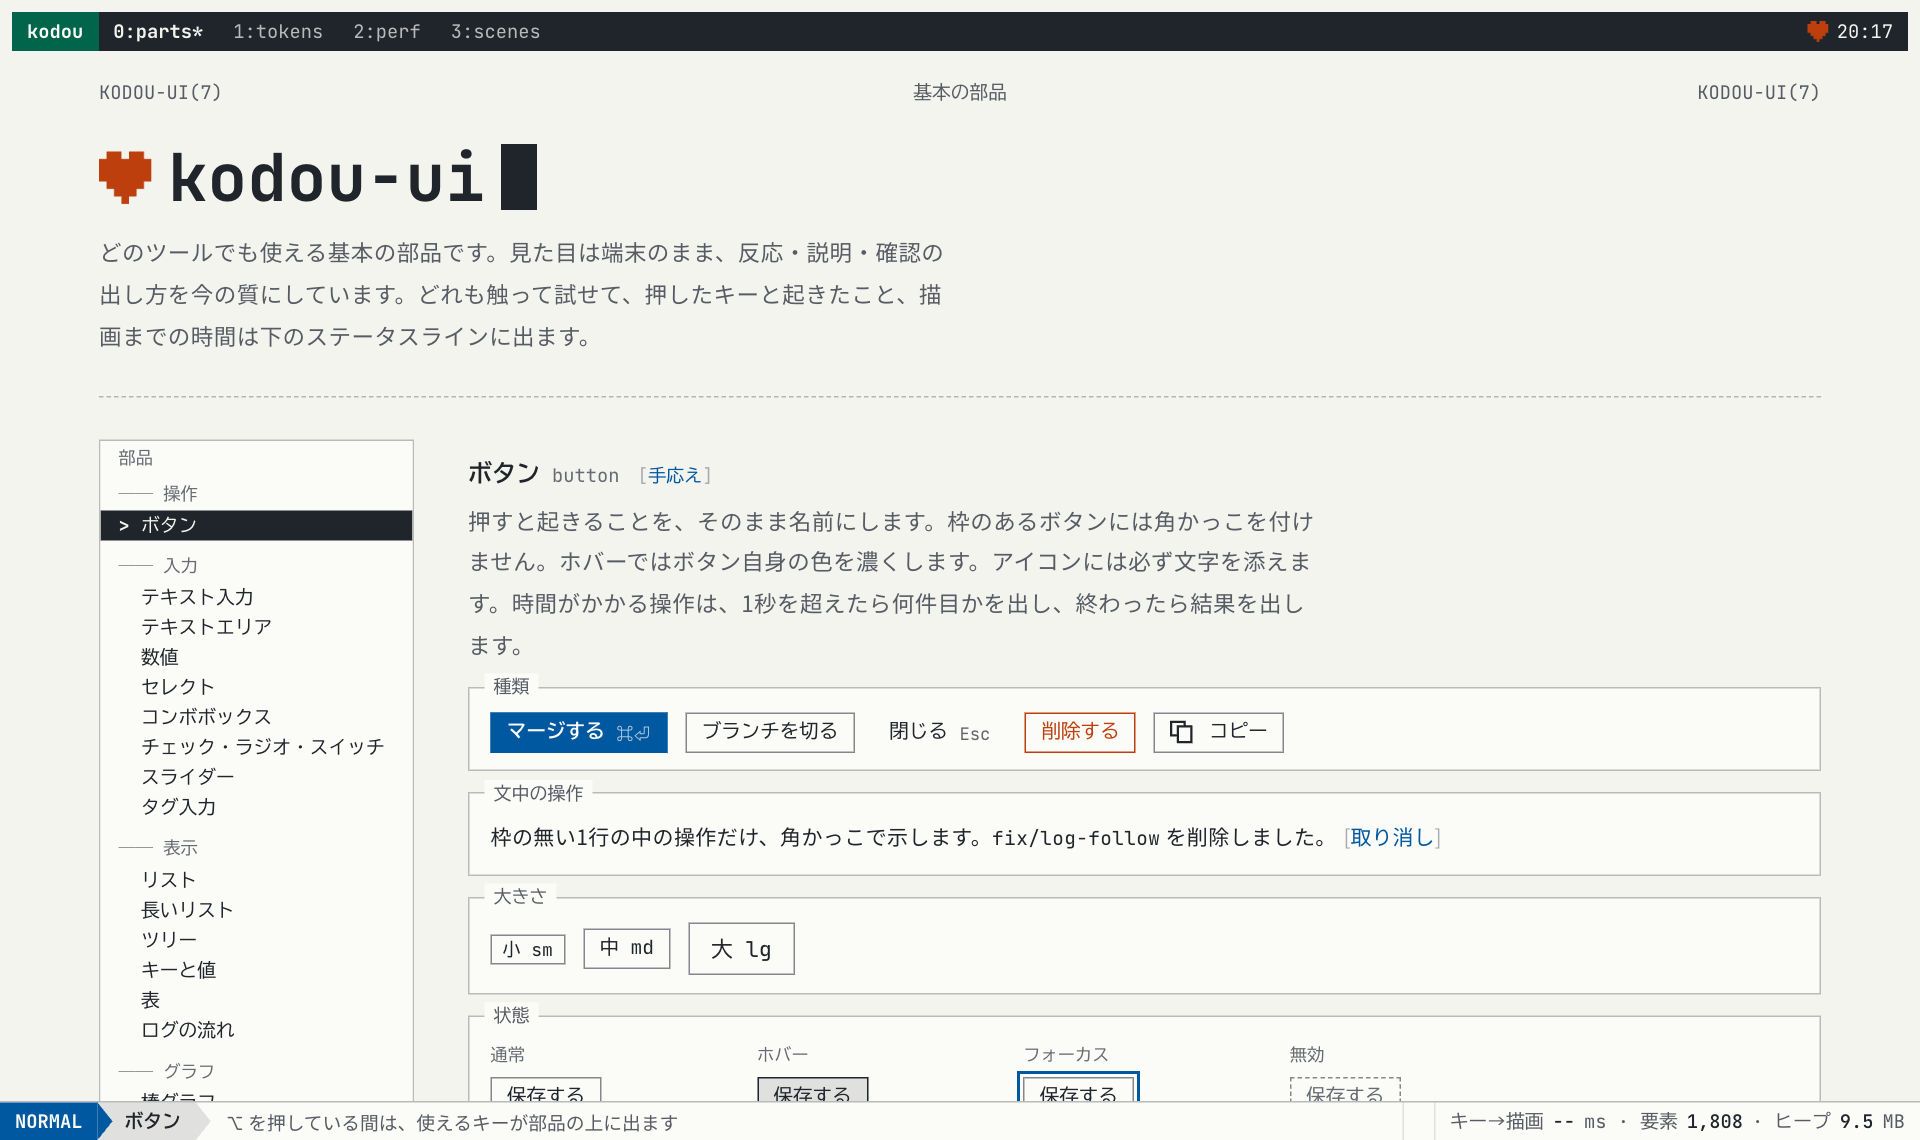
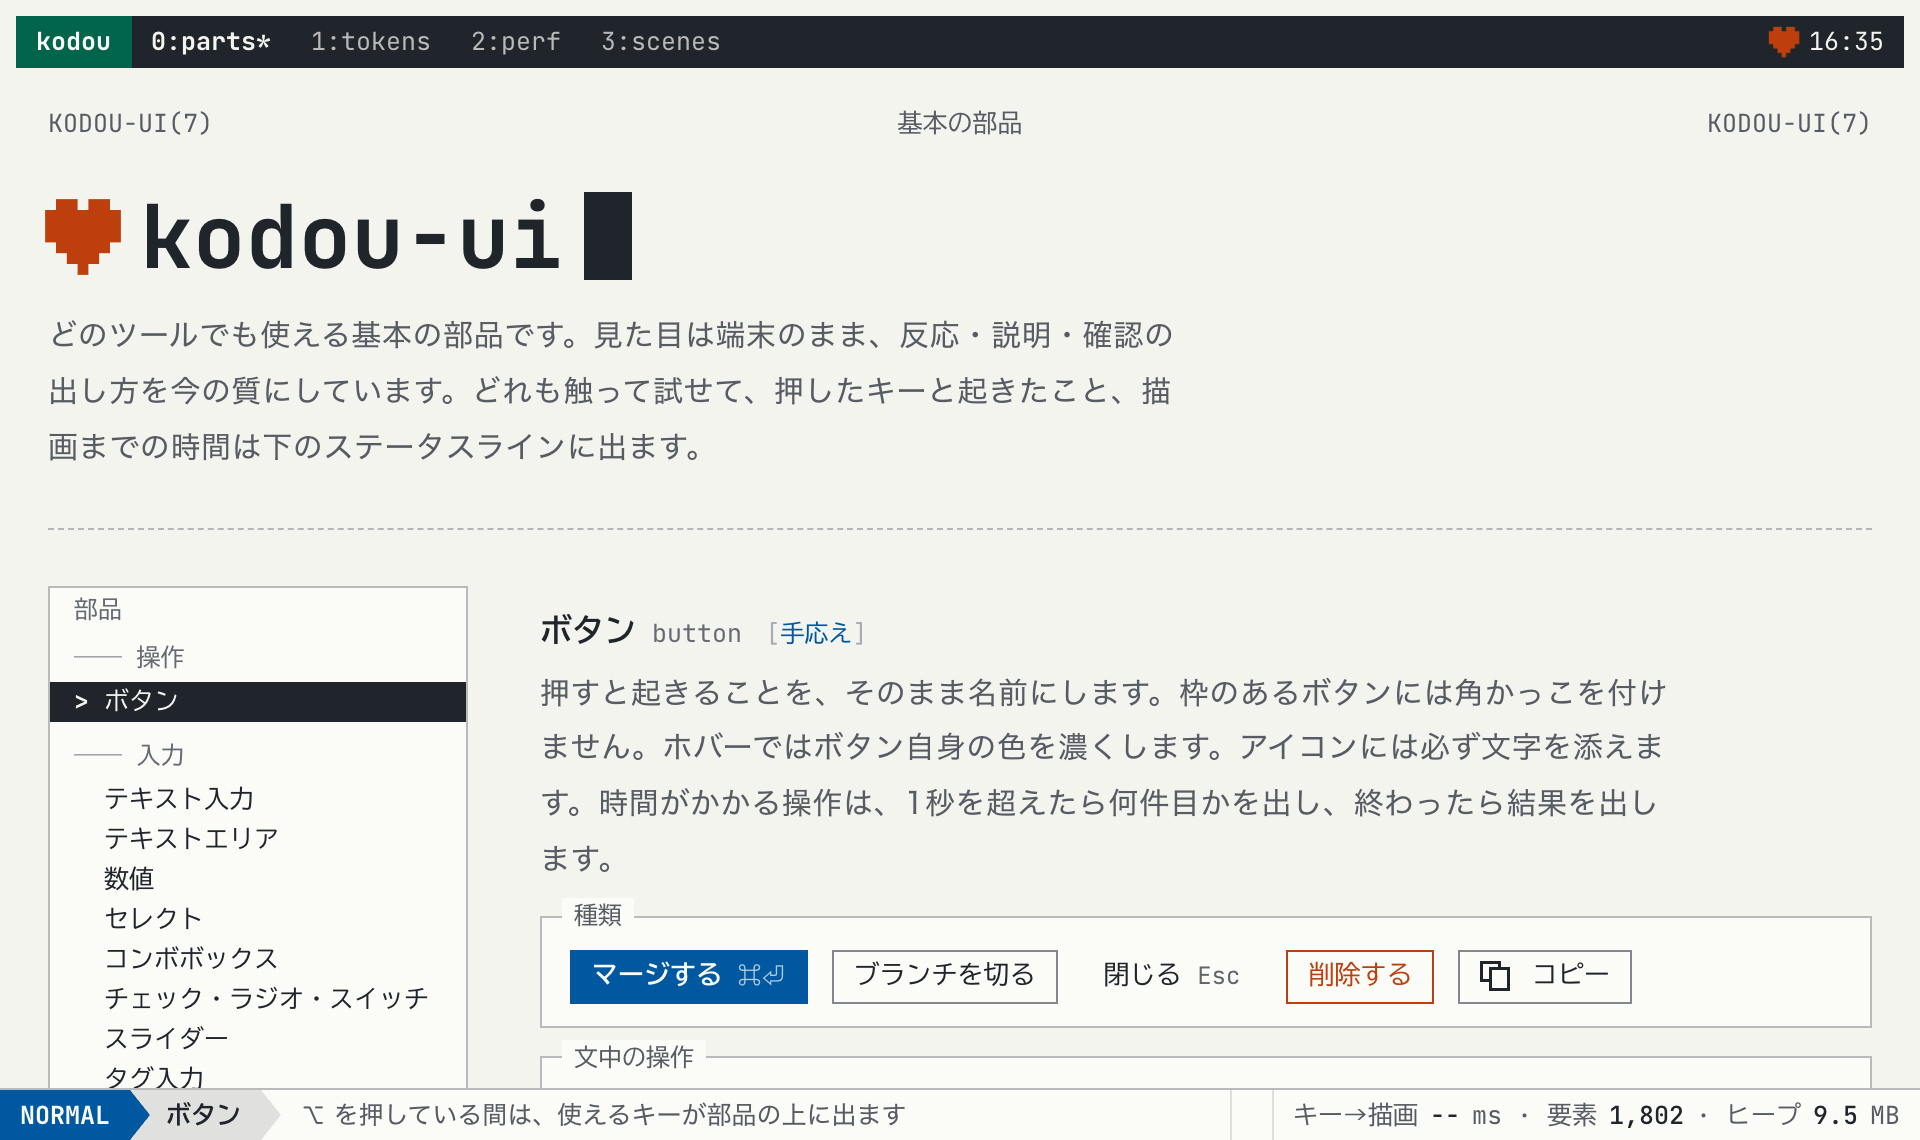
紹介ページに Swift の節を足し、README の画像を撮り直す (#7)
* 紹介ページに Swift の節を足し、README の画像を今の見た目で撮り直す

* CHANGELOG に紹介ページの Swift の節を書く

diff --git a/site/index.html b/site/index.html
@@ -296,6 +296,9 @@ svg.px { flex: none; fill: currentColor; shape-rendering: crispEdges }
 .vs code { font: 13px var(--font) }
 .light { margin-top: 24px; color: var(--dim) } .light b { font: 800 20px var(--font); color: var(--fg) }
 .light small { display: block; font-size: 12.5px; color: var(--faint) }
+.shot { display: block; width: 100%; height: auto; margin-top: 26px; border: 1px solid var(--fg) }
+.cmp { margin-top: 24px; max-width: 40em; font-size: 0.875rem }
+.cmp th { cursor: default } .cmp td { padding: 3px 6px } .cmp td:first-child { white-space: normal; font-family: var(--font-read) } .cmp tr.me td { font-weight: 700 }
 .sh { position: relative; background: var(--sel-bg); color: var(--sel-fg); padding: 16px 18px; font: 13px/1.9 var(--font); overflow-x: auto }
 .sh div { white-space: pre } .sh .p { color: #7FD3B0 }
 .copy { position: absolute; top: 10px; right: 10px; border: 1px solid currentColor; background: var(--sel-bg); color: var(--sel-fg); font: 12px var(--font); padding: 2px 10px; min-height: 28px; cursor: pointer }
@@ -314,7 +317,7 @@ footer .wrap { display: flex; flex-wrap: wrap; gap: 4px 2ch; padding-block: 16px
 
 <header class="top"><div class="wrap">
   <span class="name">Kodou-ui</span><span class="sp"></span>
-  <a href="#get">入れ方</a><a href="#tool">サンプル</a><a href="#samples">部品</a><a href="#only">Kodou ならでは</a><a href="#ux">使い心地</a><a href="#pixels">ドット絵</a><a href="https://github.com/k-aoshima/kodou-ui">GitHub</a>
+  <a href="#get">入れ方</a><a href="#tool">サンプル</a><a href="#samples">部品</a><a href="#only">Kodou ならでは</a><a href="#ux">使い心地</a><a href="#pixels">ドット絵</a><a href="#swift">Swift</a><a href="https://github.com/k-aoshima/kodou-ui">GitHub</a>
 </div></header>
 
 <main class="wrap">
@@ -535,6 +538,22 @@ to type 'string'.</pre></details></div></div>
     </div>
     <div class="gal" id="gal" aria-label="見本帳のアイコン"></div>
     <p class="more">スキルには 110 個入っています。足りないものはエージェントが同じ格子で描き足し、点検のスクリプトが大きさと中心のずれを確かめます。</p>
+  </section>
+
+  <section class="band" id="swift">
+    <h2><span class="ph">Mac のアプリも、</span><span class="ph">同じ部品で。</span></h2>
+    <p>見本帳と同じ 36 の部品を、Swift でも作りました。一覧・ログ・表・ツリーは AppKit の NSTableView で見えている行だけ描き、ほかは SwiftUI で作ります。色と文字は見本帳から書き出すので、Web と同じ見た目になります。</p>
+    <img class="shot" src="img/swift.webp" width="1300" height="940" loading="lazy" decoding="async" alt="Swift の部品の見本。通知の帯、バッジ、進捗バー、折れ線、メーター、棒グラフ、ヒストグラム、スパークライン、点の多いグラフを並べた窓">
+    <table class="cmp">
+      <thead><tr><th>同じ画面の作り方</th><th class="n">メモリ</th><th class="n">流している間の CPU</th></tr></thead>
+      <tbody>
+        <tr class="me"><td>Kodou-ui の Swift の部品</td><td class="n">34 MB</td><td class="n">7.3%</td></tr>
+        <tr><td>手当てをした SwiftUI（List と、点を間引いた Swift Charts）</td><td class="n">112 MB</td><td class="n">37.1%</td></tr>
+        <tr><td>同じ頁を WKWebView で出したもの</td><td class="n">121 MB</td><td class="n">19.7%</td></tr>
+      </tbody>
+    </table>
+    <p class="light"><small>一覧 1 万行、50 行/秒のログ、2 万点のグラフ。Apple M6 の実際の窓で、3 回の中央値。測り方は <a href="https://github.com/k-aoshima/kodou-ui/blob/main/bench/swift/README.md">bench/swift</a> にあります。</small></p>
+    <p class="more">エージェントに「SwiftUI で作って」と添えると、この部品と、SwiftUI と AppKit の分け方の決まりで作ります。</p>
   </section>
 
   <section class="band">

diff --git a/README.md b/README.md
@@ -32,6 +32,8 @@
 
 macOS のネイティブ（SwiftUI・AppKit）向けにも、同じ 36 の部品を Swift で作りました（[swift/](swift/README.md)）。同じ画面を手当てをした SwiftUI（List と間引いた Swift Charts）で作って比べると、メモリは 112 MB に対して 34 MB、流している間の CPU は 37.1% に対して 7.3% でした。測り方と結果は [bench/swift/README.md](bench/swift/README.md) にあります。
 
+![Swift の部品の見本](site/img/swift.webp)
+
 ## 入れ方
 
 ### Claude Code（プラグイン）

diff --git a/README.en.md b/README.en.md
@@ -25,6 +25,8 @@ On the same screen built with React (MUI and Recharts, with the usual optimizati
 
 The same 36 components also exist for native macOS apps in Swift (SwiftUI and AppKit), in [swift/](swift/README.md). Against the same screen in SwiftUI with the usual optimizations (List and downsampled Swift Charts), memory was 34 MB against 112 MB and CPU while streaming was 7.3% against 37.1%. See [bench/swift/README.md](bench/swift/README.md).
 
+![Swift components](site/img/swift.webp)
+
 ## Install
 
 Claude Code:
